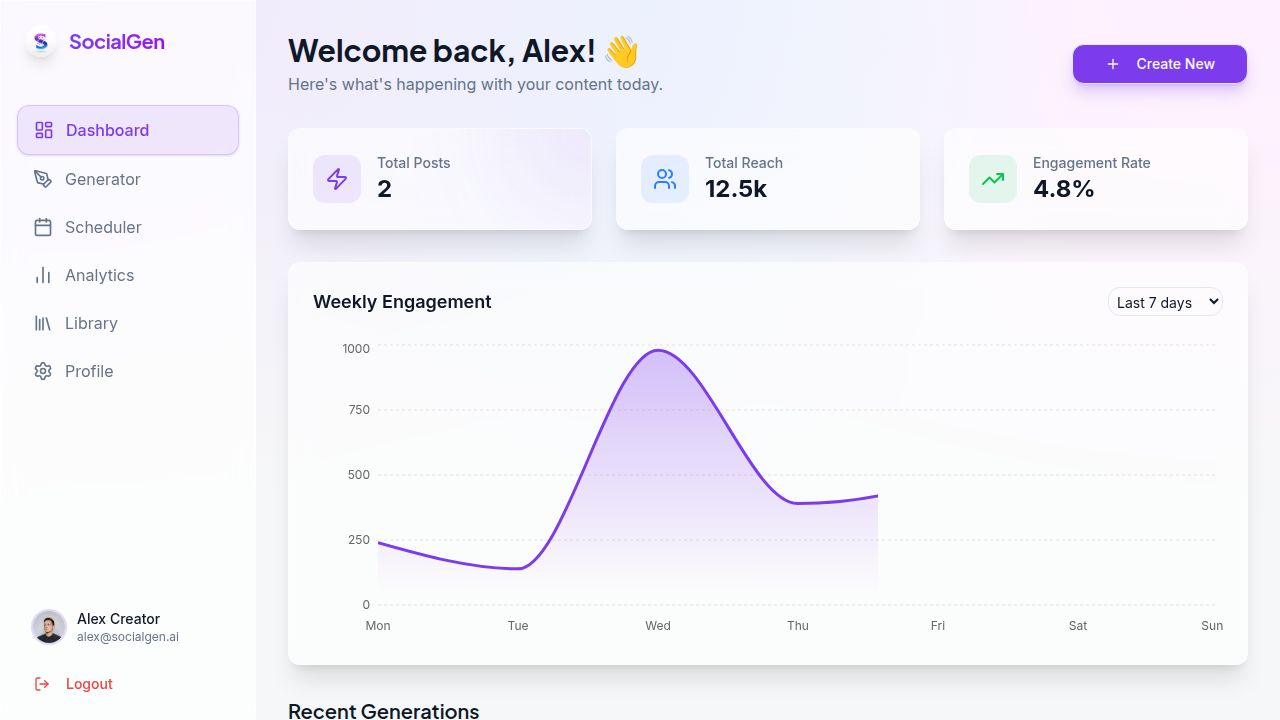
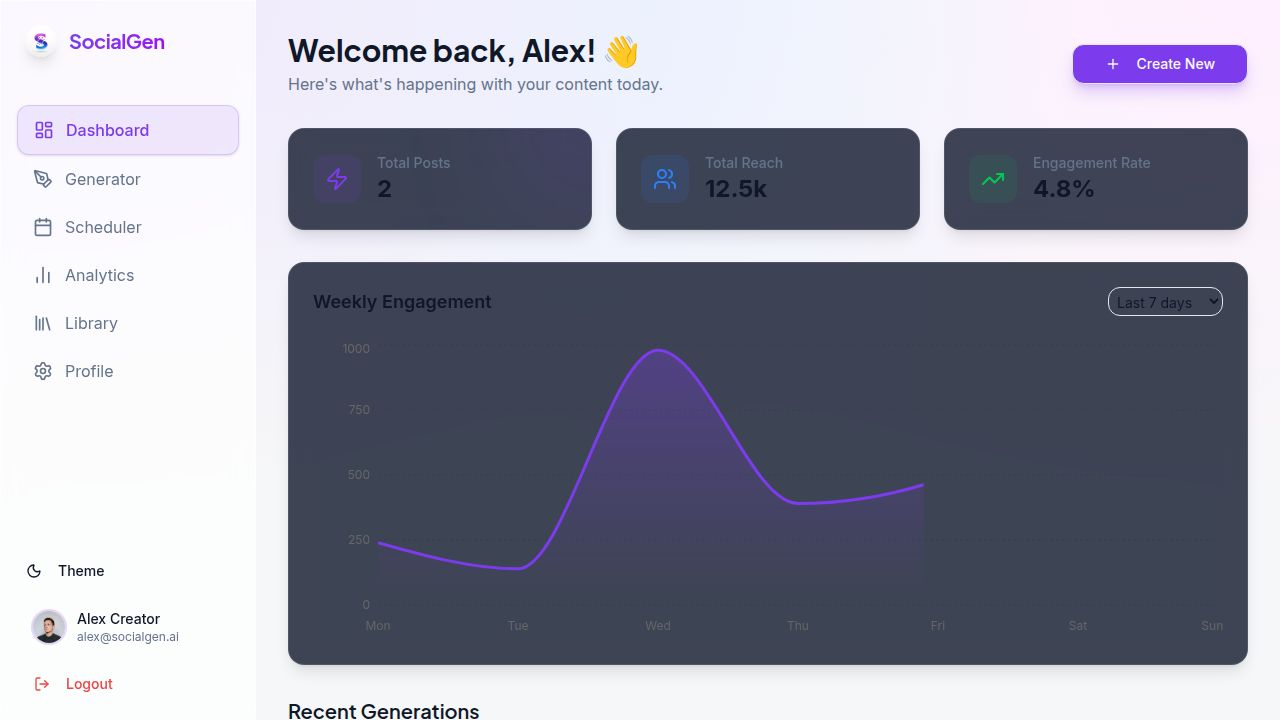
Update dashboard UI with brighter, modern styling
Refactor card components and CSS to use bg-white/90, rounded-2xl, and shadow-lg for a cleaner SaaS aesthetic.

Replit-Commit-Author: Agent
Replit-Commit-Session-Id: 63698987-5763-447c-8152-82826fec3f20
Replit-Commit-Checkpoint-Type: full_checkpoint
Replit-Commit-Event-Id: 27e5c348-38ea-420b-8ad8-3716aa4346a6
Replit-Commit-Screenshot-Url: https://storage.googleapis.com/screenshot-production-us-central1/4a553a16-aad6-45ec-a3d1-9e2b0c3f45cf/63698987-5763-447c-8152-82826fec3f20/RFeYGjr
Replit-Helium-Checkpoint-Created: true

diff --git a/client/src/pages/Generator.tsx b/client/src/pages/Generator.tsx
@@ -24,7 +24,7 @@ export default function Generator() {
           </div>
 
           {generatedContent.length === 0 ? (
-            <div className="h-64 flex flex-col items-center justify-center text-muted-foreground border-2 border-dashed border-primary/20 rounded-xl bg-white/30">
+            <div className="h-64 flex flex-col items-center justify-center text-muted-foreground border-2 border-dashed border-primary/20 rounded-2xl bg-white/60 backdrop-blur-sm">
               <p>No content generated yet.</p>
               <p className="text-sm">Use the form on the left to start.</p>
             </div>

diff --git a/client/src/components/ContentCard.tsx b/client/src/components/ContentCard.tsx
@@ -55,7 +55,7 @@ export function ContentCard({ content }: { content: GeneratedContent }) {
         </div>
       )}
 
-      <div className="bg-white/40 dark:bg-black/20 p-4 rounded-lg mb-4 text-sm whitespace-pre-wrap font-medium">
+      <div className="bg-violet-50/50 dark:bg-white/5 border border-violet-100/20 p-4 rounded-xl mb-4 text-sm whitespace-pre-wrap font-medium">
         {content.content}
       </div>
 

diff --git a/client/src/components/ui/GlassCard.tsx b/client/src/components/ui/GlassCard.tsx
@@ -15,7 +15,7 @@ export const GlassCard = React.forwardRef<HTMLDivElement, GlassCardProps>(
         initial={{ opacity: 0, y: 10 }}
         animate={{ opacity: 1, y: 0 }}
         className={cn(
-          "glass-card rounded-xl p-6 relative overflow-hidden",
+          "glass-card p-6 relative overflow-hidden",
           className
         )}
         {...props}

diff --git a/client/src/index.css b/client/src/index.css
@@ -62,7 +62,7 @@
 }
 
 .glass-card {
-  @apply bg-white/60 dark:bg-slate-900/60 backdrop-blur-md border border-white/20 dark:border-white/10 shadow-xl;
+  @apply bg-white/90 dark:bg-slate-900/80 backdrop-blur-md border border-white/40 dark:border-white/10 shadow-lg rounded-2xl;
 }
 
 @layer base {
